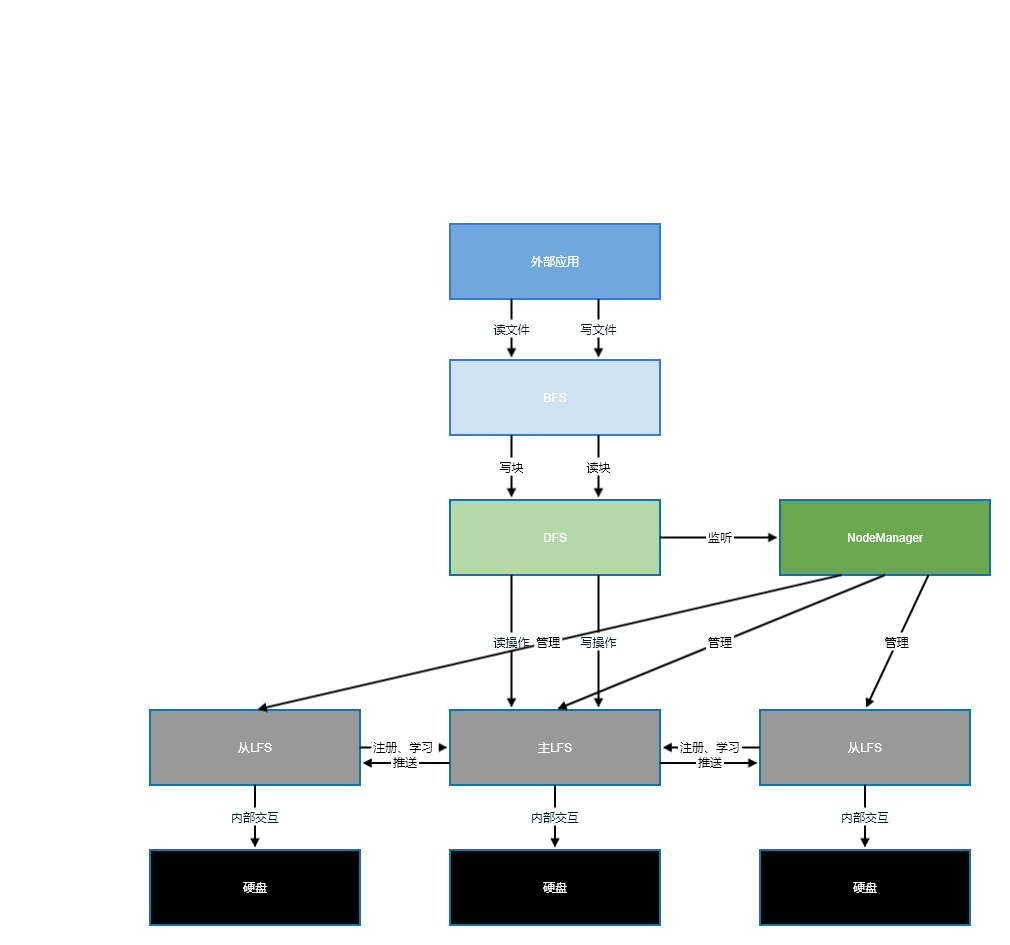
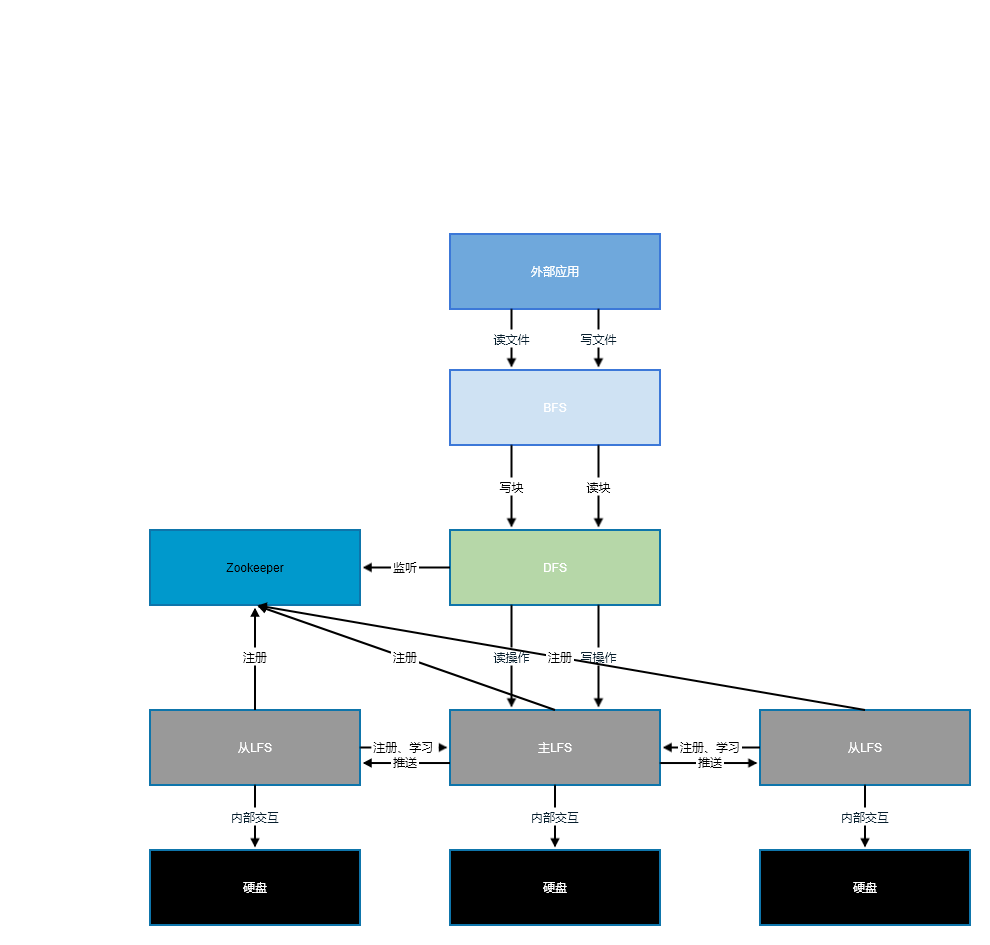
modify distribute-storage blog

diff --git a/_posts/2019-01-02-distribute-storage.md b/_posts/2019-01-02-distribute-storage.md
@@ -1,0 +1,41 @@
+---
+categories: architecture
+layout: post
+---
+
+本文仅个人的一些思路和想法，很多地方都没有进行验证。
+
+- Table
+{:toc}
+# 分布式存储
+
+假设我们实现了一个文件存储系统，其对外提供了读写API。实现非常简单，我们复用了OS提供的文件系统来为我们存储和管理文件。
+
+![](https://raw.githubusercontent.com/taodaling/simple-blog/master/assets/images/2019-1-2-distribute-storage/architecture1.png)
+
+随着业务的发展，下面的三个问题崭露头角：
+
+1. 那么随着文件量的增加，因此我们很快发现一张硬盘已经无法容纳所有的文件了。
+2. 同时我们也发现数据的价值难以估摸，一旦丢失将造成无法挽回的代价。
+3. 同时随着接入应用越来越多，单机的带宽和性能都已经达到瓶颈，我们已经无法为更多的接入应用提供高效的读写操作了。
+
+下面我们依次解决这三个问题：
+
+对于问题1，我们发现硬盘无法容纳所有文件，那么我们就有两个选择，为硬盘扩容，或者使用多张硬盘，并实现自己的文件系统来屏蔽这一特性，从而使得上层服务不用被修改。显然前者终究会面临到一个无法再扩容的瓶颈，而后者则允许我们使用一些碎片化的硬件组成一个完整的超大容量硬盘抽象。因此我们选择后者。 我们称我们自建的文件系统为分布式文件系统（DFS）。但是对于一些特别大的文件，一个硬盘可能无法完整保存，所以我们选择对文件进行分块，块的大小是固定相等的（其中最后一块可以不同）。为了保证DFS仅处理一个任务（将多个硬盘视作一个），我们提供额外的分块文件系统（BFS），其架构在DFS之上，进行自动分块操作。
+
+对于问题2，由于数据可能会因为物理、灾害等意外原因而丢失或损坏，为了降低意外发生导致数据丢失的概率，我们可以为每各文件增加多份副本（replica）。事实上单副本损坏的概率是很高的，而两个处于不同地域的副本同时损坏的概率则低很多，但也不能保证完全不可能发生，因此我们选择使用三副本的策略。这样就可以保证数据始终处于完整。这里我们为每个DFS中的硬盘均增加额外的两块副本硬盘。
+
+由于问题2的解决方案是使用多副本，这将引起一些新问题：
+
+- 维持副本数：DFS管理的某个硬盘一旦损坏，我们必须尽快将数据迁移到其他空闲硬盘上，因为损坏硬盘上的存储的所有文件副本数都仅为两个。这也意味着我们需要实时监控硬盘状态，为了减少复杂度，我们为每个主机都提供一个额外的本地文件系统（LFS），LFS为DFS提供服务。由于每个文件都存储在三个主机上，因此我们利用主从模型为其上的三个LFS分配角色，一个为master，另外两个为slave。
+- 副本的一致性：数据的写入的处理，我们要保证一致性，即要么写入对所有副本都生效，要么写入就失败。但是写入操作应该是异步还是同步操作，就需要再行商榷。因此我们的DFS会提供两种写入方式，一种是同步写入(writeSync)，一种是异步写入(writeAsync)。同步写入能保证在写入成功后才会返回，而异步写入则不作出保证，但是却不会阻塞。同步写入适用于重要的数据存储，而异步写入适用于日志等可丢失数据。
+- 文件并发写入：由于LFS是主从模型，一切写操作由主负责，因此我们可以保证对相同文件的写操作能被串行执行，而不会出现交错的情况。
+
+我们利用zookeeper实现LFS的选主，以及LFS副本的转换。而DFS订阅zookeeper，来得到实时推送。
+
+对于问题3，由于单机性能达到瓶颈，并且我们之前提供多副本的策略，那么我们可以将从节点上的LFS提供只读服务，从而优化读的性能。而不同文件的写发生在不同的LFS上，因此对不同的文件的写可以并发执行。
+
+为了保证学习和重新选主的正常执行，我们为每个LFS维护一个序列号，在对其写入时，会增加序列号。而选主则选择序列号最大的副本，而每次主节点向从节点推送修改，需要带上版本号，如果从节点发现自己受到的版本号与主节点推送的并不连贯，那么，从节点会不接受该次修改，而选择学习整个主节点。
+
+![](https://raw.githubusercontent.com/taodaling/simple-blog/master/assets/images/2019-1-2-distribute-storage/architecture3.png)
+
